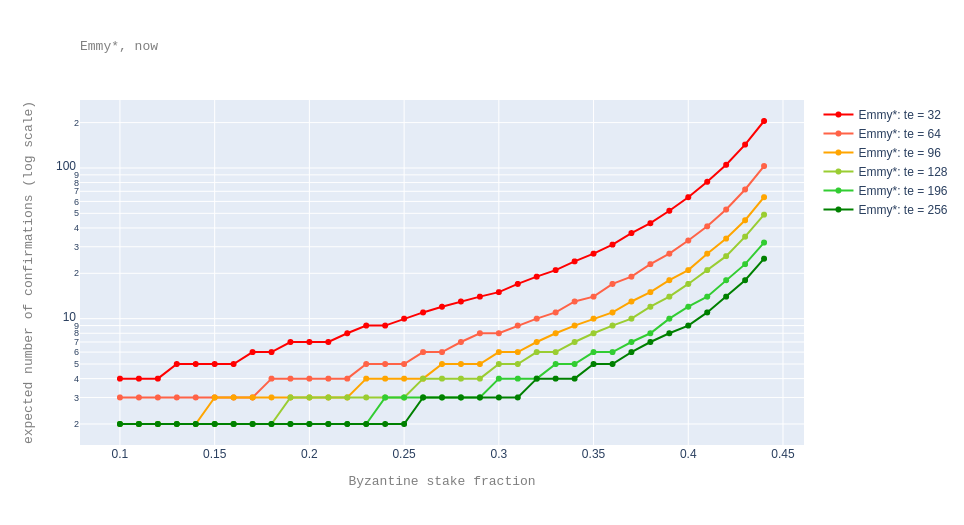
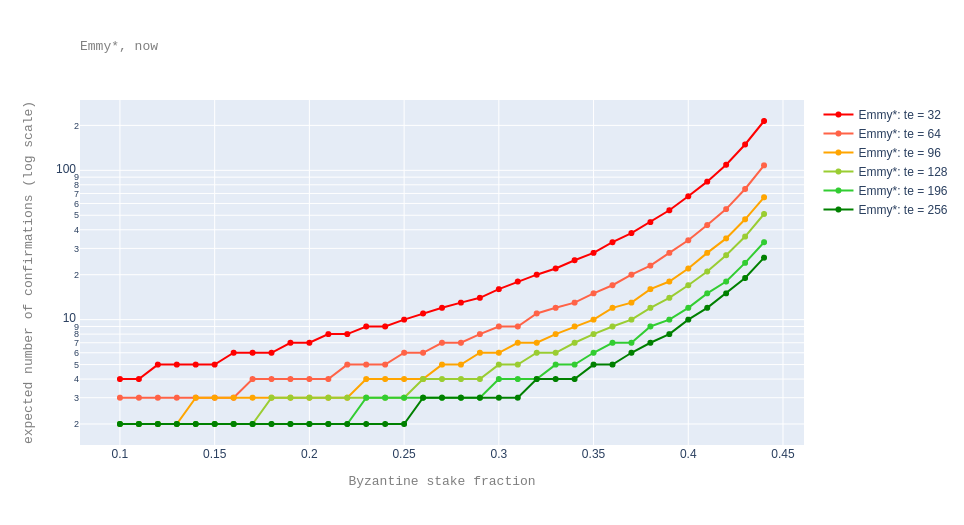
update wrt change in the security threshold from 1e-8 to 5e-9

diff --git a/drafts/current/draft_emmy-star.md b/drafts/current/draft_emmy-star.md
@@ -30,7 +30,7 @@ Emmy<sup>&#9733;</sup> updates Emmy<sup>+</sup> by:
 
 both of which bring faster times to finality.
 
-Concretely, in Emmy<sup>&#9733;</sup> a block can be produced with a delay of 30 seconds with respect to the previous block if it has priority 0 and more than half of the total endorsing power[^endos] per block. The number of endorsement slots per block is increased from 32 to say[^testnet] 256. <!--(This means that for a block to be produced after 30 seconds, it needs to have endorsements with at least 128 endorsing power.)--> 
+Concretely, in Emmy<sup>&#9733;</sup> a block can be produced with a delay of 30 seconds with respect to the previous block if it has priority 0 and more than half of the total endorsing power[^endos] per block. The number of endorsement slots per block is increased from 32 to say[^testnet] 256. <!--(This means that for a block to be produced after 30 seconds, it needs to have endorsements with at least 128 endorsing power.)-->
 
 [^endos]: The *endorsing power* of a set of endorsements is the number of endorsement slots these endorsements represent.
 
@@ -38,9 +38,9 @@ Concretely, in Emmy<sup>&#9733;</sup> a block can be produced with a delay of 30
 
 With these changes, on a healthy chain and for a Byzantine attacker with 33% stake for instance, the number of confirmations decreases to 2 blocks, therefore 1 minute, a 6 fold improvement.
 
-[^fin]: Here, _reasonably sure_ means "with probability smaller than some reasonable threshold", which we quantify as $\small 10^{-8}$, which puts our expectation of being wrong about a block being final at [roughly once every two centuries](https://blog.nomadic-labs.com/analysis-of-emmy.html#preliminaries).
+[^fin]: Here, _reasonably sure_ means "with probability smaller than some reasonable threshold", which we quantify as $5\cdot 10^{-9}$, which puts our expectation of being wrong about a block being final at roughly once every two centuries.
 
-[^healthy]: We say a chain is *healthy* over a period of time if in this period blocks have priority 0 and (almost) all its endorsement slots are filled. A concrete healthiness measure is the delay of the chain with respect to the ideal chain where each block has a delay of one minute with respect to the previous block. 
+[^healthy]: We say a chain is *healthy* over a period of time if in this period blocks have priority 0 and (almost) all its endorsement slots are filled. A concrete healthiness measure is the delay of the chain with respect to the ideal chain where each block has a delay of one minute with respect to the previous block.
 
 ## Motivation
 
@@ -95,15 +95,15 @@ $$
 
 Since with Emmy<sup>&#9733;</sup> there will normally be two times as many blocks per year, to preserve the inflation rate from Emmy<sup>+</sup>, $\trz$ and $\tr$ are updated to $40$, resp. $3$.
 
-Therefore, rewards per endorsement slot are 16 times smaller in Emmy<sup>&#9733;</sup> versus Emmy<sup>+</sup>: 
+Therefore, rewards per endorsement slot are 16 times smaller in Emmy<sup>&#9733;</sup> versus Emmy<sup>+</sup>:
 
-- 2 times smaller because blocks would be produced two times faster, and 
+- 2 times smaller because blocks would be produced two times faster, and
 - 8 times smaller because there are 8 times more endorsement slots per level.
 
-Concretely, 
-* the constant `baking_reward_per_endorsement` is changed from `[ "1250000", "187500" ]` to `[ "78125", "11719" ]`; 
-* the constant `endorsement_reward` is changed from `[ "1250000", "833333" ]`  to `[ "78125", "52083" ]` (Recall that these are values in mutez.) 
- 
+Concretely,
+* the constant `baking_reward_per_endorsement` is changed from `[ "1250000", "187500" ]` to `[ "78125", "11719" ]`;
+* the constant `endorsement_reward` is changed from `[ "1250000", "833333" ]`  to `[ "78125", "52083" ]` (Recall that these are values in mutez.)
+
 
 ### Security deposits
 
@@ -112,17 +112,17 @@ The values of the security deposits are updated with respect to the new value of
 *  $32 \cdot \frac{\trz}{2} = 32 \cdot \frac{40}{2} = 640$ for baking
 *  $32 \cdot \frac{\trz}{2 \cdot \te} = 32 \cdot \frac{40}{2\cdot 256} = 2.5$ for endorsing.
 
-This way, security deposits are proportional with the maximum reward. The constant 32 is the one used in Emmy. 
+This way, security deposits are proportional with the maximum reward. The constant 32 is the one used in Emmy.
 
 ## Rationale
 
 Each of the [two mentioned updates](#Abstract) helps decrease the time to finality:
 * Increasing the number of required endorsements makes nodes converge faster on the same chain. In other words, the number of confirmations decreases, as detailed below.
 * While the new block delay formula does not help with decreasing the number of confirmations, it helps decrease the confirmation times simply by decreasing the time between blocks.
-    
-We note that simply decreasing the time between blocks in Emmy+ would not be a very sensible thing to do. This is because, as suggested by [the analysis of Emmy+ in the partial synchrony network model](https://blog.nomadic-labs.com/emmy-in-the-partial-synchrony-model.html), we have that the smaller the time between blocks (that is, the smaller the constant $\db$), the more sensitive is the algorithm to message delays. In Emmy<sup>&#9733;</sup>, time between blocks is decreased only when the network conditions are good (as otherwise not enough endorsements would be gathered in time). 
 
-The following plot shows the number of confirmations (in log scale) for different $\te$ when varying the stake fraction from 0.1 to 0.45 and different numbers of total endorsements. This plot assumes the ["forks started in the past" scenario](https://blog.nomadic-labs.com/analysis-of-emmy.html#forks-started-in-the-past), meaning that we are interested in the finality of a block which already has a number of confirmations on top of it (and therefore, importantly, we know how healthy the chain was in the meanwhile), and we ask ourselves whether this number is sufficient. Here we assume a perfectly healthy chain. 
+We note that simply decreasing the time between blocks in Emmy<sup>+</sup> would not be a very sensible thing to do. This is because, as suggested by [the analysis of Emmy+ in the partial synchrony network model](https://blog.nomadic-labs.com/emmy-in-the-partial-synchrony-model.html), we have that the smaller the time between blocks (that is, the smaller the constant $\db$), the more sensitive is the algorithm to message delays. In Emmy<sup>&#9733;</sup>, time between blocks is decreased only when the network conditions are good (as otherwise not enough endorsements would be gathered in time).
+
+The following plot shows the number of confirmations (in log scale) for different $\te$ values when varying the stake fraction from 0.1 to 0.45 and different numbers of total endorsements. This plot assumes the ["forks started in the past" scenario](https://blog.nomadic-labs.com/analysis-of-emmy.html#forks-started-in-the-past), meaning that we are interested in the finality of a block which already has a number of confirmations on top of it (and therefore, importantly, we know how healthy the chain was in the meanwhile), and we ask ourselves whether this number is sufficient. Here we assume a perfectly healthy chain.
 In the plot, the highest red point corresponds to 18 confirmations.
 
 ![](images/emmystar_past.png)
@@ -131,16 +131,16 @@ To complement the above plot, the following table presents a subset of the data 
 
 | $f$ \ $\te$ |   32 |   64 |   96 |   128 |   196 |   256 |
 |--------:|-----:|-----:|-----:|------:|------:|------:|
-|    **0.1**  |    2 |    2 |    2 |     2 |     2 |     2 |
-|    **0.15** |    3 |    2 |    2 |     2 |     2 |     2 |
-|    **0.2**  |    4 |    2 |    2 |     2 |     2 |     2 |
-|    **0.25** |    5 |    3 |    2 |     2 |     2 |     2 |
-|    **0.3**  |    6 |    4 |    3 |     3 |     2 |     2 |
-|    **0.33** |    8 |    5 |    4 |     3 |     3 |     2 |
-|    **0.35** |   10 |    5 |    4 |     4 |     3 |     3 |
-|    **0.4**  |   18 |   10 |    7 |     6 |     4 |     4 |
+| **0.1** |    2 |    2 |    2 |     2 |     2 |     2 |
+| **0.15**|    3 |    2 |    2 |     2 |     2 |     2 |
+| **0.2** |    4 |    2 |    2 |     2 |     2 |     2 |
+| **0.25**|    5 |    3 |    3 |     2 |     2 |     2 |
+| **0.3** |    7 |    4 |    3 |     3 |     2 |     2 |
+| **0.33**|    8 |    5 |    4 |     3 |     3 |     2 |
+| **0.35**|   10 |    6 |    4 |     4 |     3 |     3 |
+| **0.4** |   18 |   10 |    7 |     6 |     4 |     4 |
 
-The following plot shows the *expected* number of confirmations (in log scale) for different $\te$ when varying the stake fraction from 0.1 to 0.45. This plot assumes the ["forks starting now" scenario](https://blog.nomadic-labs.com/analysis-of-emmy.html#forks-starting-now), meaning that we are interested in the finality of the last injected block. (The number are expectedly higher because we have no information about how healthy the chain will be.)
+The following plot shows the *expected* number of confirmations (in log scale) for different $\te$ values when varying the stake fraction from 0.1 to 0.45. This plot assumes the ["forks starting now" scenario](https://blog.nomadic-labs.com/analysis-of-emmy.html#forks-starting-now), meaning that we are interested in the finality of the last injected block. (The number are expectedly higher because we have no information about how healthy the chain will be.)
 In the plot, the highest red point corresponds to 205 expected confirmations.
 
 ![](images/emmystar_now.png)
@@ -148,15 +148,15 @@ In the plot, the highest red point corresponds to 205 expected confirmations.
 To complement the above plot, the following table presents a subset of the data in text form. As above, $f$ stands for the attacker's stake fraction and a value in the table gives the expected number of confirmation for a given $f$ and a given $\te$.
 
 | $f$ \ $\te$ |   32 |   64 |   96 |   128 |   196 |   256 |
-|--------:|-----:|-----:|-----:|------:|------:|------:|
-| **0.1** |    4 |    3 |    2 |     2 |     2 |     2 |
-| **0.15**|    5 |    3 |    3 |     2 |     2 |     2 |
-| **0.2** |    7 |    4 |    3 |     3 |     2 |     2 |
-| **0.25**|   10 |    5 |    4 |     3 |     3 |     2 |
-| **0.3** |   15 |    8 |    6 |     5 |     4 |     3 |
-| **0.33**|   21 |   11 |    8 |     6 |     5 |     4 |
-| **0.35**|   27 |   14 |   10 |     8 |     6 |     5 |
-| **0.4** |   64 |   33 |   21 |    17 |    12 |     9 |
+|---------:|-----:|-----:|-----:|------:|------:|------:|
+| **0.1**  |    4 |    3 |    2 |     2 |     2 |     2 |
+| **0.15** |    5 |    3 |    3 |     2 |     2 |     2 |
+| **0.2**  |    7 |    4 |    3 |     3 |     2 |     2 |
+| **0.25** |   10 |    6 |    4 |     3 |     3 |     2 |
+| **0.3**  |   16 |    9 |    6 |     5 |     4 |     3 |
+| **0.33** |   22 |   12 |    8 |     6 |     5 |     4 |
+| **0.35** |   28 |   15 |   10 |     8 |     6 |     5 |
+| **0.4**  |   67 |   34 |   22 |    17 |    12 |    10 |
 
 ## Backwards Compatibility
 
@@ -170,7 +170,7 @@ As it was the case for Emmy<sup>+</sup>, we do not have a full security proof fo
 
 ### Selfish baking
 
-We recall that the rewards in Carthage were defined in such a way that a non-cooperative baker obtains no "benefit" from [deflationary baking](https://blog.nomadic-labs.com/a-new-reward-formula-for-carthage.html). This was mainly obtained by having the reward for including an endorsement set to the same amount as the reward to have one endorsement included. As this property is still satisfied in Emmy<sup>&#9733;</sup>, we only consider here [selfish baking](https://blog.nomadic-labs.com/analysis-of-emmy.html). That is, an attacker tries to bake its own secret chain by withholding its own endorsements. 
+We recall that the rewards in Carthage were defined in such a way that a non-cooperative baker obtains no "benefit" from [deflationary baking](https://blog.nomadic-labs.com/a-new-reward-formula-for-carthage.html). This was mainly obtained by having the reward for including an endorsement set to the same amount as the reward to have one endorsement included. As this property is still satisfied in Emmy<sup>&#9733;</sup>, we only consider here [selfish baking](https://blog.nomadic-labs.com/analysis-of-emmy.html). That is, an attacker tries to bake its own secret chain by withholding its own endorsements.
 
 First, stealing just one block is not profitable, just from the definition of the delay function.
 
